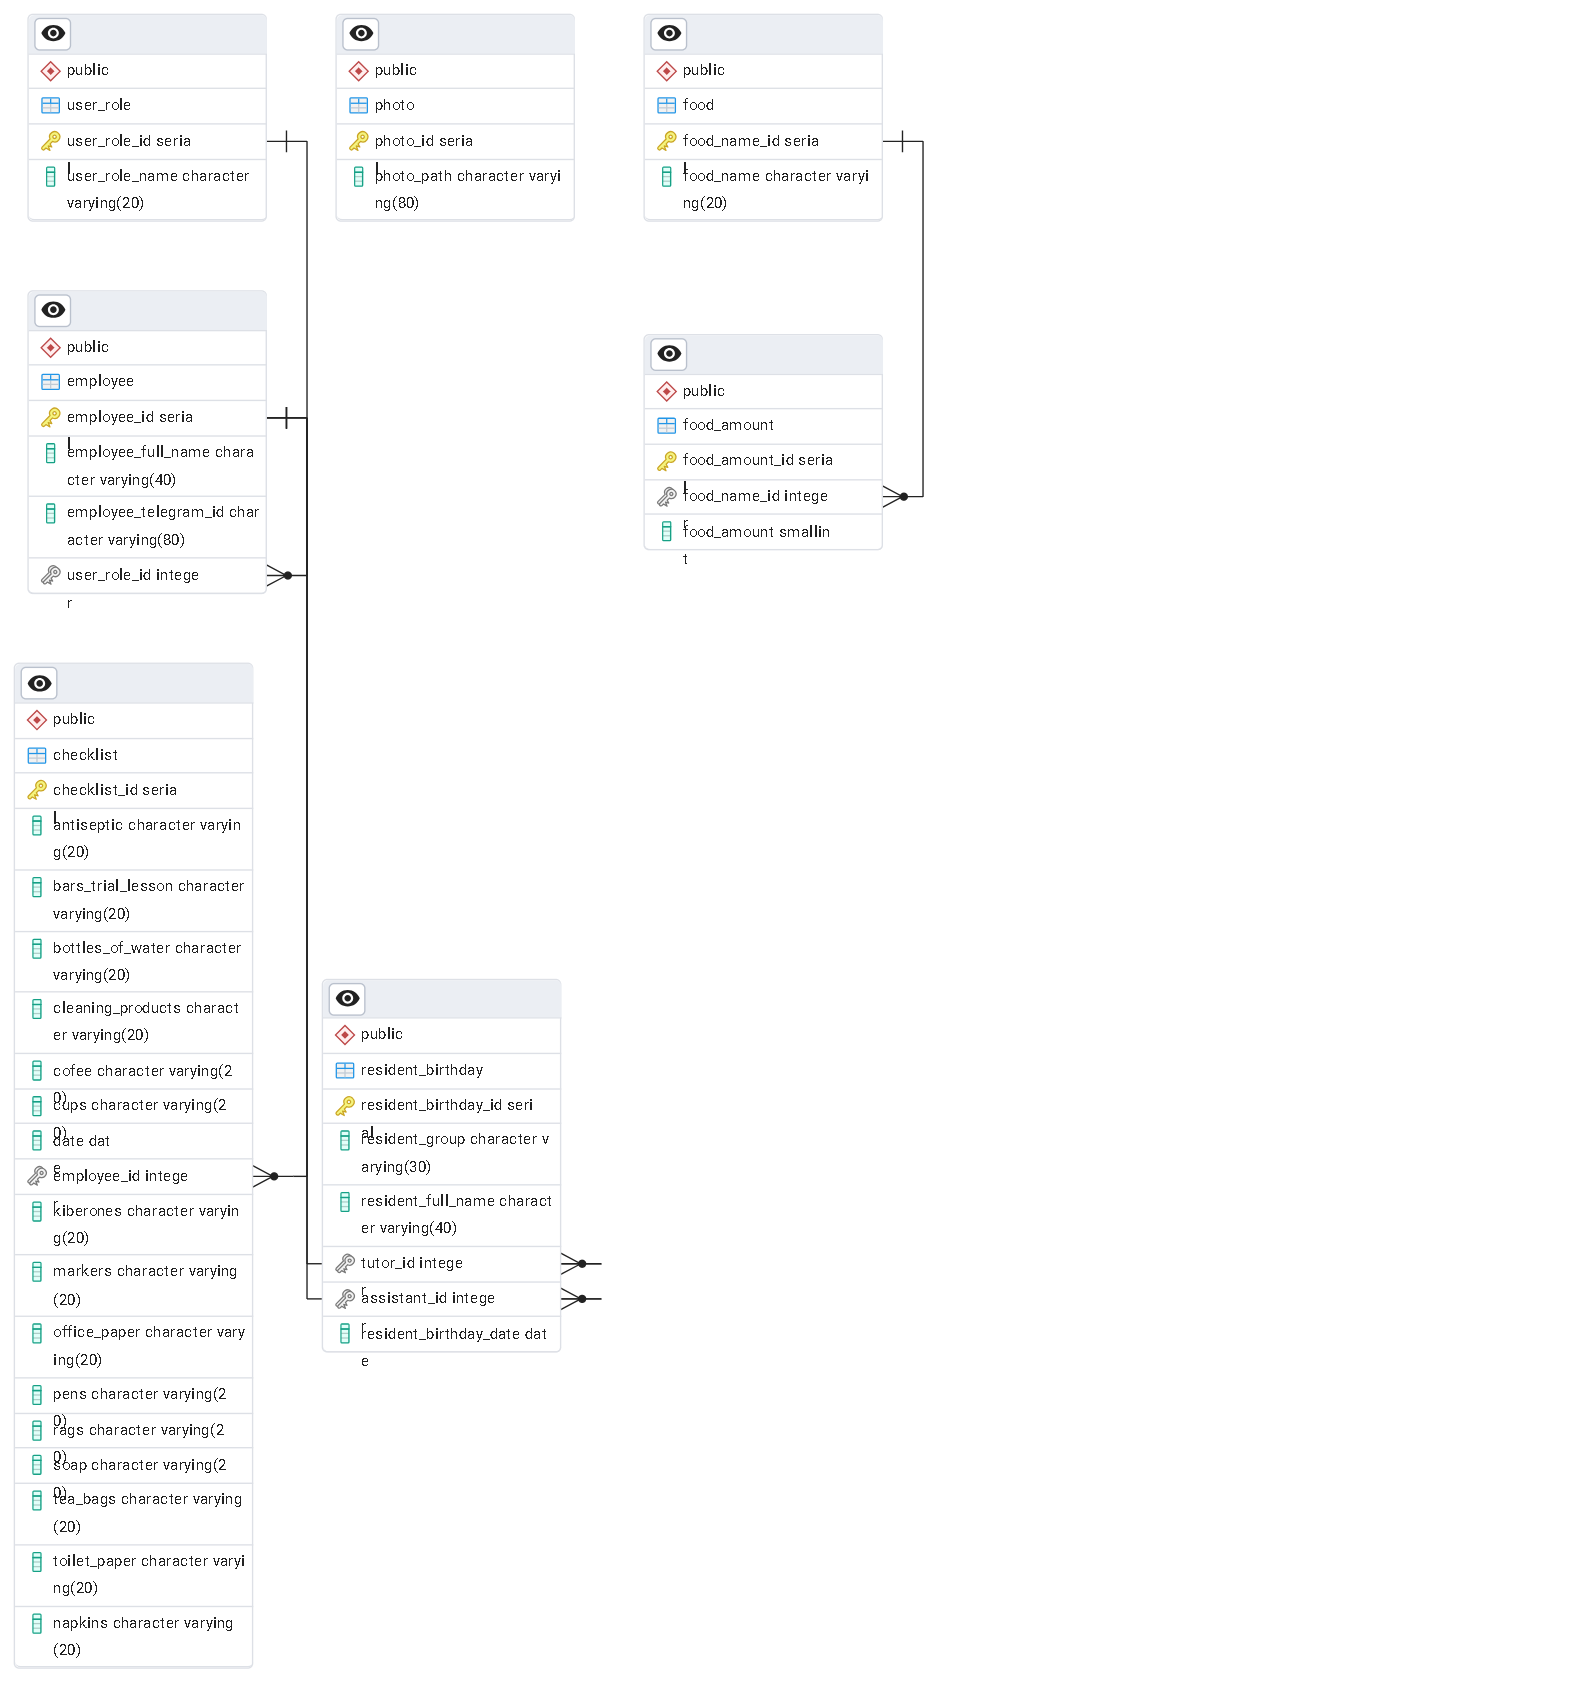
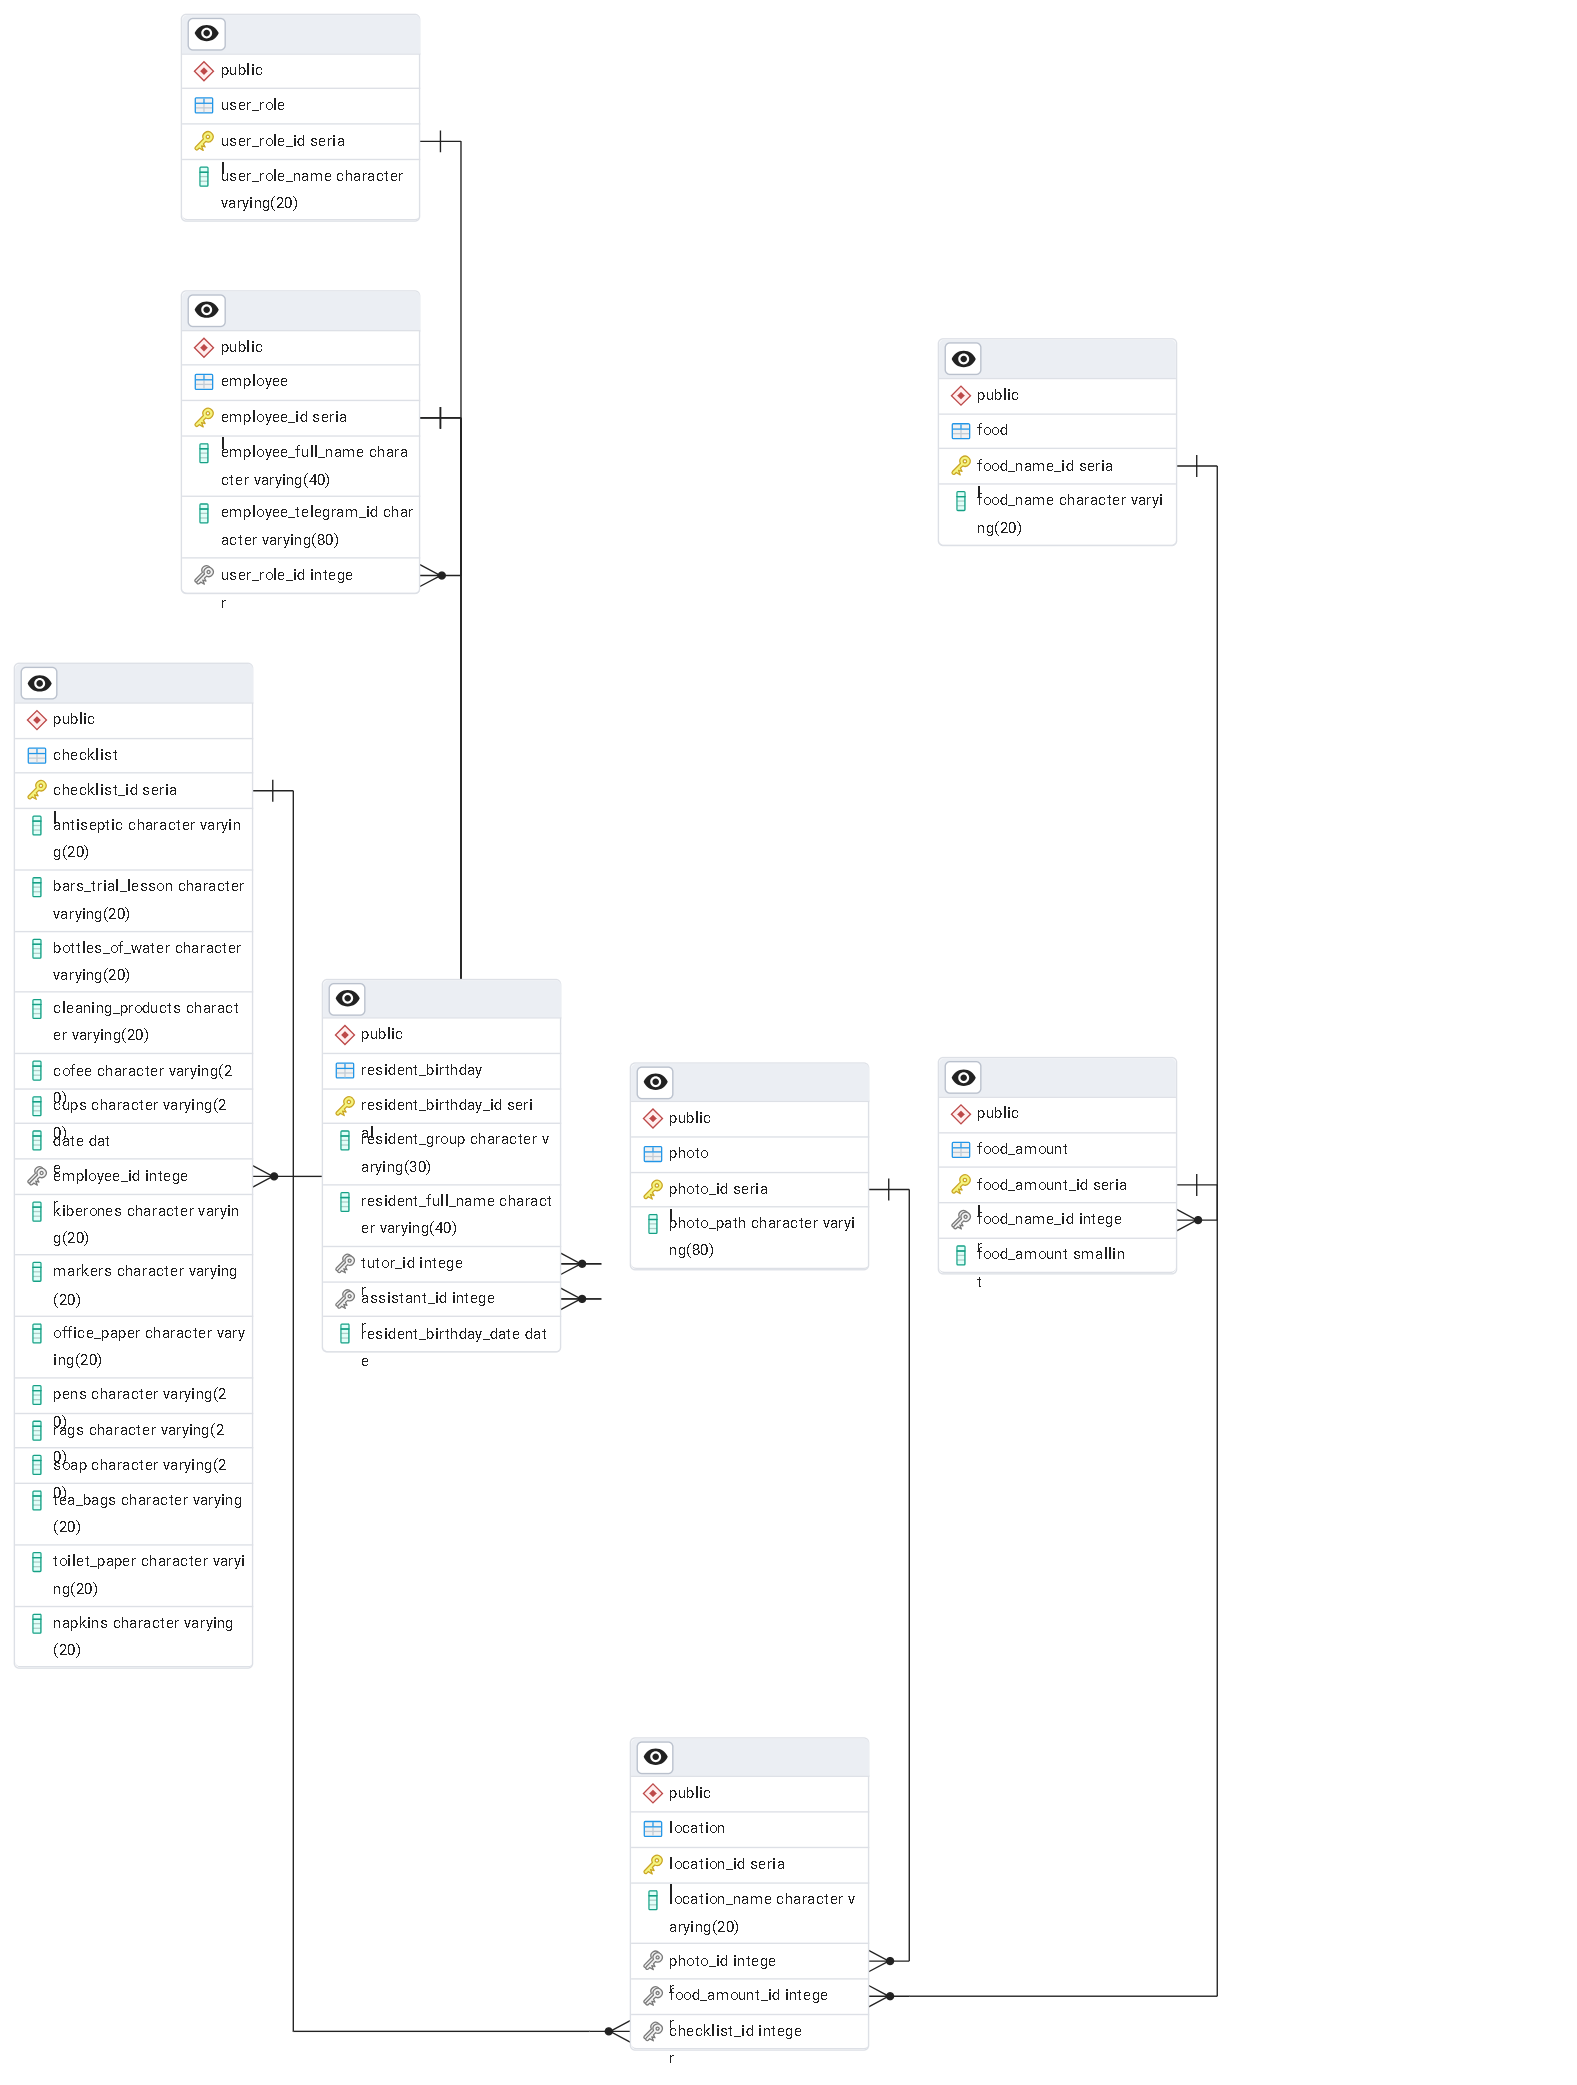
add orm and connection to db

diff --git a/Database/tableModels.py b/Database/tableModels.py
@@ -1,0 +1,150 @@
+# from typing import Optional
+
+from sqlalchemy import ForeignKey
+from sqlalchemy import String
+from sqlalchemy.orm import DeclarativeBase
+from sqlalchemy.orm import Mapped
+from sqlalchemy.orm import mapped_column
+
+
+class Base(DeclarativeBase):
+    pass
+
+
+class photoTable(Base):
+    __tablename__ = "photo"
+
+    photo_id: Mapped[int] = mapped_column(primary_key=True)
+    photo_path: Mapped[str] = mapped_column(String(80))
+
+    def __repr__(self) -> str:
+        return f"photo(photo_id={self.photo_id}, " \
+            + f"photo_path={self.photo_path})"
+
+
+class foodTable(Base):
+    __tablename__ = "food"
+
+    food_name_id: Mapped[int] = mapped_column(primary_key=True)
+    food_name: Mapped[str] = mapped_column(String(20))
+
+    def __repr__(self) -> str:
+        return f"food(food_name_id={self.food_name_id}, " \
+            + f"food_name={self.food_name})"
+
+
+class foodAmountTable(Base):
+    __tablename__ = "food_amount"
+
+    food_amount_id: Mapped[int] = mapped_column(primary_key=True)
+    food_name_id: Mapped[int] = mapped_column(ForeignKey("food.food_name_id"))
+    food_amount: Mapped[int]
+
+    def __repr__(self) -> str:
+        return f"food_amount(food_amount_id={self.food_amount_id}, " \
+            + f"food_name_id={self.food_name_id}, " \
+            + f"food_amount={self.food_amount})"
+
+
+class userRoleTable(Base):
+    __tablename__ = "user_role"
+
+    user_role_id: Mapped[int] = mapped_column(primary_key=True)
+    user_role_name: Mapped[str] = mapped_column(String(20))
+
+    def __repr__(self) -> str:
+        return f"user_role(user_role_id={self.user_role_id}, " \
+            + f"user_role_name={self.user_role_name})"
+
+
+class employeeTable(Base):
+    __tablename__ = "employee"
+
+    employee_id: Mapped[int] = mapped_column(primary_key=True)
+    employee_full_name: Mapped[str] = mapped_column(String(40))
+    employee_telegram_id: Mapped[str] = mapped_column(String(80))
+    user_role_id: Mapped[int] = mapped_column(ForeignKey("user_role.user_role_id"))
+
+    def __repr__(self) -> str:
+        return f"employee(employee_id={self.employee_id}, " \
+            + f"employee_full_name={self.employee_full_name}, " \
+            + f"employee_telegram_id={self.employee_telegram_id}, " \
+            + f"user_role_id={self.user_role_id})"
+
+
+class residentBirthdayTable(Base):
+    __tablename__ = "resident_birthday"
+
+    resident_birthday_id: Mapped[int] = mapped_column(primary_key=True)
+    resident_group: Mapped[str] = mapped_column(String(30))
+    resident_full_name: Mapped[str] = mapped_column(String(40))
+    tutor_id: Mapped[int] = mapped_column(ForeignKey("employee.employee_id"))
+    assistant_id: Mapped[int] = mapped_column(ForeignKey("employee.employee_id"))
+    resident_birthday_date: Mapped[str] = mapped_column(String(12))
+
+    def __repr__(self) -> str:
+        return f"resident_birthday(resident_birthday_id={self.resident_birthday_id}, " \
+            + f"resident_group={self.resident_group}, " \
+            + f"resident_full_name={self.resident_full_name}, " \
+            + f"tutor_id={self.tutor_id}, " \
+            + f"assistant_id={self.assistant_id}, " \
+            + f"resident_birthday_date={self.resident_birthday_date})"
+
+
+class checklistTable(Base):
+    __tablename__ = "checklist"
+
+    checklist_id: Mapped[int] = mapped_column(primary_key=True)
+    antiseptic: Mapped[str] = mapped_column(String(20))
+    bars_trial_lesson: Mapped[str] = mapped_column(String(20))
+    bottles_of_water: Mapped[str] = mapped_column(String(20))
+    cleaning_products: Mapped[str] = mapped_column(String(20))
+    cofee: Mapped[str] = mapped_column(String(20))
+    cups: Mapped[str] = mapped_column(String(20))
+    date: Mapped[str] = mapped_column(String(12))
+    employee_id: Mapped[int] = mapped_column(ForeignKey("employee.employee_id"))
+    kiberones: Mapped[str] = mapped_column(String(20))
+    markers: Mapped[str] = mapped_column(String(20))
+    office_paper: Mapped[str] = mapped_column(String(20))
+    pens: Mapped[str] = mapped_column(String(20))
+    rags: Mapped[str] = mapped_column(String(20))
+    soap: Mapped[str] = mapped_column(String(20))
+    tea_bags: Mapped[str] = mapped_column(String(20))
+    toilet_paper: Mapped[str] = mapped_column(String(20))
+    napkins: Mapped[str] = mapped_column(String(20))
+
+    def __repr__(self) -> str:
+        return f"checklist(checklist_id={self.checklist_id}, " \
+            + f"antiseptic={self.antiseptic}, " \
+            + f"bars_trial_lesson={self.bars_trial_lesson}, " \
+            + f"bottles_of_water={self.bottles_of_water}, " \
+            + f"cleaning_products={self.cleaning_products}, " \
+            + f"cofee={self.cofee}, " \
+            + f"cups={self.cups}, " \
+            + f"date={self.date}, " \
+            + f"employee_id={self.employee_id}, " \
+            + f"kiberones={self.kiberones}, " \
+            + f"markers={self.markers}, " \
+            + f"office_paper={self.office_paper}, " \
+            + f"pens={self.pens}, " \
+            + f"rags={self.rags}, " \
+            + f"soap={self.soap}, " \
+            + f"tea_bags={self.tea_bags}, " \
+            + f"toilet_paper={self.toilet_paper})"
+
+
+class locationTable(Base):
+    __tablename__ = "location"
+
+    location_id: Mapped[int] = mapped_column(primary_key=True)
+    location_name: Mapped[str] = mapped_column(String(20))
+    photo_id: Mapped[int] = mapped_column(ForeignKey("photo.photo_id"))
+    food_amount_id: Mapped[int] = mapped_column(ForeignKey("food_amount.food_amount_id"))
+    checklist_id: Mapped[int] = mapped_column(ForeignKey("checklist.checklist_id"))
+
+    def __repr__(self) -> str:
+        return f"location(location_id={self.location_id}, " \
+            + f"location_name={self.location_name}, " \
+            + f"photo_id={self.photo_id}, " \
+            + f"food_amount_id={self.food_amount_id}, " \
+            + f"checklist_id={self.checklist_id})"

diff --git a/Routers/checklistRouter.py b/Routers/checklistRouter.py
@@ -3,6 +3,10 @@ from aiogram.filters import StateFilter
 from aiogram.fsm.context import FSMContext
 from aiogram.fsm.state import default_state, State, StatesGroup
 
+from sqlalchemy import select
+
+from Database.database import async_session
+from Database.tableModels import checklistTable, foodAmountTable
 from Keyboards.locationsMenuKeyboard import (
     keyboard_locations_menu,
     keyboard_back_menu
@@ -35,6 +39,41 @@ async def start_check_checklist(message: types.Message):
     await message.answer(
         text="Выберите локацию, для которой хотите посмотреть чек-лист:",
         reply_markup=keyboard_locations_menu
+    )
+
+    async with async_session() as session:
+        stmt = select(foodAmountTable.food_amount).where(
+            foodAmountTable.food_amount_id == 1
+        )
+        print(stmt)
+        result = await session.execute(stmt)
+        food_result = result.scalars().all()
+        print(food_result)
+
+    async with async_session() as session:
+        stmt = select(checklistTable)
+        print(stmt)
+        result = await session.execute(stmt)
+        consumables_result = result.scalars().all()
+        print(consumables_result)
+
+    await message.reply(
+        f"Остатки продуктов: {food_result[0]}\n\n" \
+        + "Остатки расходников\n" \
+        + f"Вода: {consumables_result[0].bottles_of_water}\n" \
+        + f"Бумага туалетная: {consumables_result[0].toilet_paper}\n" \
+        + f"Салфетки: {consumables_result[0].napkins}\n" \
+        + f"Антисептик: {consumables_result[0].antiseptic}\n" \
+        + f"Бумага офисная: {consumables_result[0].office_paper}\n" \
+        + f"Мыло: {consumables_result[0].soap}\n" \
+        + f"Тряпки: {consumables_result[0].rags}\n" \
+        + f"Средства для уборки: {consumables_result[0].cleaning_products}\n" \
+        + f"Стаканчики: {consumables_result[0].cups}\n" \
+        + f"Чай: {consumables_result[0].tea_bags}\n" \
+        + f"Карандаши/фломастеры: {consumables_result[0].pens}\n" \
+        + f"Маркеры: {consumables_result[0].markers}\n" \
+        + f"Кофе: {consumables_result[0].cofee}\n" \
+        + f"Батончики для пробника: {consumables_result[0].bars_trial_lesson}" \
     )
 
 

diff --git a/Database/database.py b/Database/database.py
@@ -1,13 +1,18 @@
-import psycopg2 as pc2
+from sqlalchemy.ext.asyncio import create_async_engine, async_sessionmaker
+
 from config import config
 
-try:
-    connection = pc2.connect(
-        user=config.database_user.get_secret_value(),
-        password=config.database_password.get_secret_value(),
-        host=config.database_host.get_secret_value(),
-        port=config.database_port.get_secret_value()
-    )
-    cursor = connection.cursor()
-except (Exception, pc2.Error):
-    print("Error when working with postgres", pc2.Error)
+
+DATABASE_URL = "postgresql+asyncpg://{}:{}@{}/{}".format(
+    config.database_user.get_secret_value(),
+    config.database_password.get_secret_value(),
+    config.database_host.get_secret_value(),
+    config.database_name.get_secret_value()
+)
+
+async_engine = create_async_engine(DATABASE_URL, echo=False)
+async_session = async_sessionmaker(
+    bind=async_engine,
+    expire_on_commit=False,
+    autoflush=False
+)

diff --git a/main.py b/main.py
@@ -7,7 +7,6 @@ from aiogram.client.default import DefaultBotProperties
 # from aiogram.fsm.storage.memory import MemoryStorage
 
 from config import config
-from Database.database import cursor
 from Routers.mainRouter import main_router
 from Routers.casesRouter import cases_router
 from Routers.checklistRouter import checklist_router
@@ -41,12 +40,6 @@ async def set_main_commands(bot: Bot):
 
 # start polling and new updates
 async def main():
-    # test connection to db
-    sql_query = "SELECT * FROM photo;"
-    cursor.execute(sql_query)
-    data = cursor.fetchone()
-    print(data)
-
     await bot.delete_webhook(drop_pending_updates=True)
     # add commands on menu
     dp.startup.register(set_main_commands)

diff --git a/config.py b/config.py
@@ -8,6 +8,7 @@ class Settings(BaseSettings):
     database_password: SecretStr
     database_host: SecretStr
     database_port: SecretStr
+    database_name: SecretStr
     model_config = SettingsConfigDict(
         env_file=".env",
         env_file_encoding="utf-8"

diff --git a/README.md b/README.md
@@ -1,14 +1,26 @@
+# TODO
+
 TODO: Добавить middleware для приемки нескольких фото в checklist_route
 
 TODO: У кнопок можно получить text
 
-TODO: Сделать тестовую бд на postgresql
+# Пример .env файла
 
-В данном репозитории проводится попытка переписать существующего тг бота.
+`BOT_TOKEN = "test_bot_token"`
+
+`DATABASE_USER = "postgres"`
+
+`DATABASE_PASSWORD = "123"`
+
+`DATABASE_HOST = "127.0.0.1"`
+
+`DATABASE_PORT = "5432"`
+
+`DATABASE_NAME = "postgres"`
 
 # Предполагаемый стек технологий
 * Бот пишется на aiogram 3.17.0
-* Бд - postgresql 17
+* Бд - postgresql 17.4
 
 # Ссылка на схемы в drawio
 https://app.diagrams.net/#G1FW2FSkJvyS_OpBSu9UgvZm28nj3fJrHA#%7B%22pageId%22%3A%22Woudl7a1q9WzPR4PGWba%22%7D
